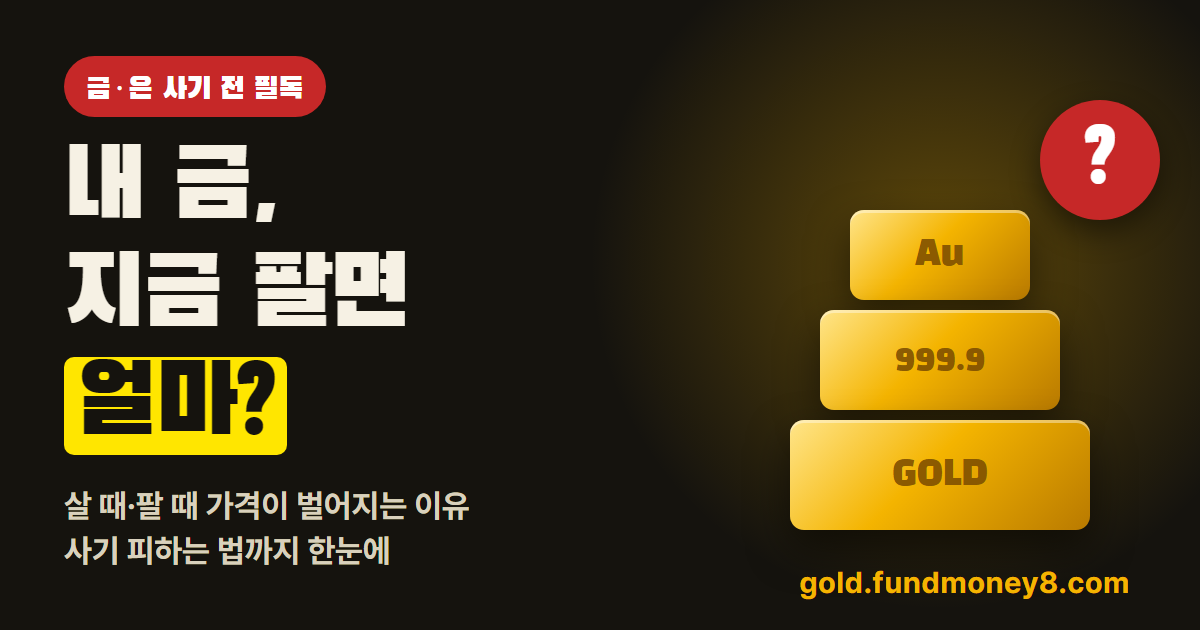
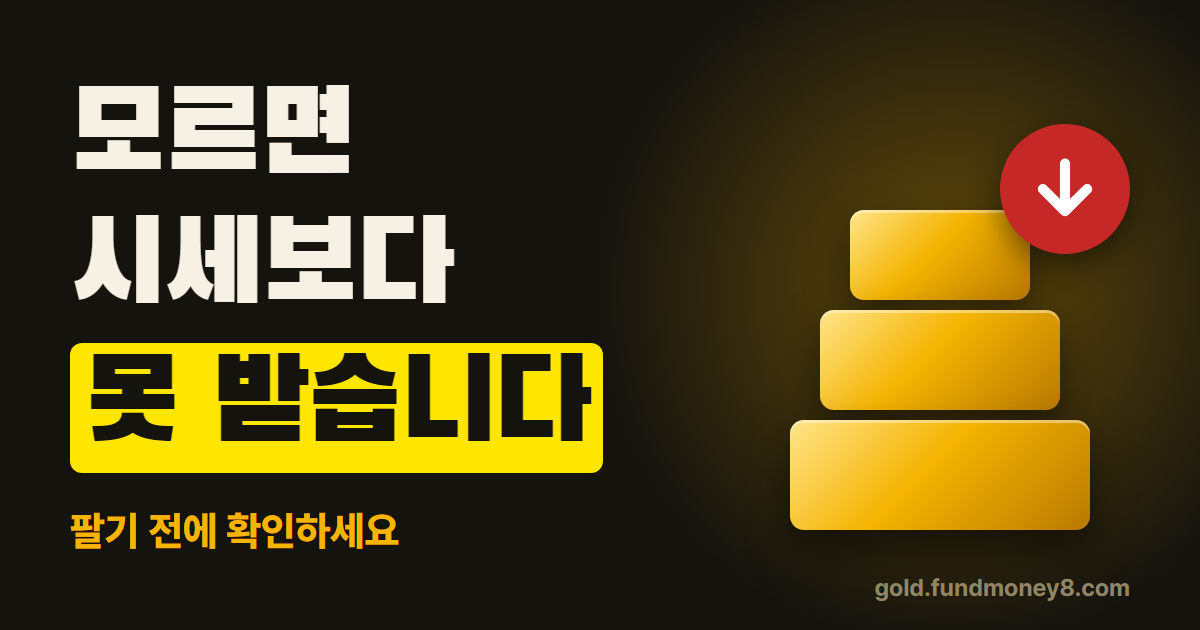
gold: 공유 대표 이미지 교체(모르면 시세보다 못 받습니다) + alt 문구

diff --git a/public/gold/price.html b/public/gold/price.html
@@ -11,7 +11,7 @@
 <meta property="og:image" content="https://gold.fundmoney8.com/og.png">
 <meta property="og:image:width" content="1200">
 <meta property="og:image:height" content="630">
-<meta property="og:image:alt" content="내 금, 지금 팔면 얼마? 금·은 사기 전 필독 거래 가이드">
+<meta property="og:image:alt" content="모르면 시세보다 못 받습니다. 금 팔기 전에 확인하세요">
 <meta property="og:type" content="website">
 <meta property="og:locale" content="ko_KR">
 <meta property="og:title" content="금은방 가격은 어떻게 정해지나요? | 금은 거래 가이드">

diff --git a/public/gold/safe.html b/public/gold/safe.html
@@ -11,7 +11,7 @@
 <meta property="og:image" content="https://gold.fundmoney8.com/og.png">
 <meta property="og:image:width" content="1200">
 <meta property="og:image:height" content="630">
-<meta property="og:image:alt" content="내 금, 지금 팔면 얼마? 금·은 사기 전 필독 거래 가이드">
+<meta property="og:image:alt" content="모르면 시세보다 못 받습니다. 금 팔기 전에 확인하세요">
 <meta property="og:type" content="website">
 <meta property="og:locale" content="ko_KR">
 <meta property="og:title" content="사기·바가지 피하는 6가지 | 금은 거래 가이드">

diff --git a/public/gold/calc.html b/public/gold/calc.html
@@ -11,7 +11,7 @@
 <meta property="og:image" content="https://gold.fundmoney8.com/og.png">
 <meta property="og:image:width" content="1200">
 <meta property="og:image:height" content="630">
-<meta property="og:image:alt" content="내 금, 지금 팔면 얼마? 금·은 사기 전 필독 거래 가이드">
+<meta property="og:image:alt" content="모르면 시세보다 못 받습니다. 금 팔기 전에 확인하세요">
 <meta property="og:type" content="website">
 <meta property="og:locale" content="ko_KR">
 <meta property="og:title" content="내 금·은 예상 금액 계산 | 금은 거래 가이드">

diff --git a/public/gold/check.html b/public/gold/check.html
@@ -11,7 +11,7 @@
 <meta property="og:image" content="https://gold.fundmoney8.com/og.png">
 <meta property="og:image:width" content="1200">
 <meta property="og:image:height" content="630">
-<meta property="og:image:alt" content="내 금, 지금 팔면 얼마? 금·은 사기 전 필독 거래 가이드">
+<meta property="og:image:alt" content="모르면 시세보다 못 받습니다. 금 팔기 전에 확인하세요">
 <meta property="og:type" content="website">
 <meta property="og:locale" content="ko_KR">
 <meta property="og:title" content="금·은 시세 보는 법 | 금은 거래 가이드">

diff --git a/public/gold/index.html b/public/gold/index.html
@@ -11,7 +11,7 @@
 <meta property="og:image" content="https://gold.fundmoney8.com/og.png">
 <meta property="og:image:width" content="1200">
 <meta property="og:image:height" content="630">
-<meta property="og:image:alt" content="내 금, 지금 팔면 얼마? 금·은 사기 전 필독 거래 가이드">
+<meta property="og:image:alt" content="모르면 시세보다 못 받습니다. 금 팔기 전에 확인하세요">
 <meta property="og:type" content="website">
 <meta property="og:locale" content="ko_KR">
 <meta property="og:title" content="금은 거래 가이드">
